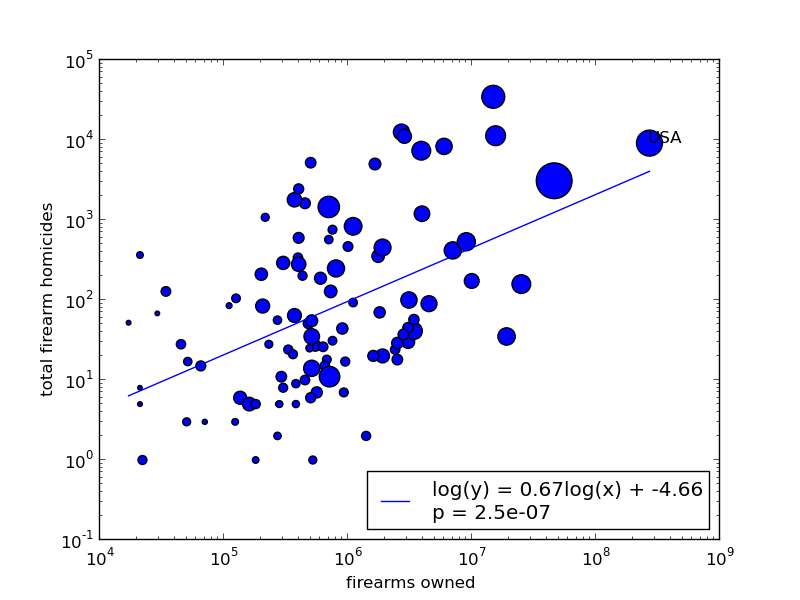
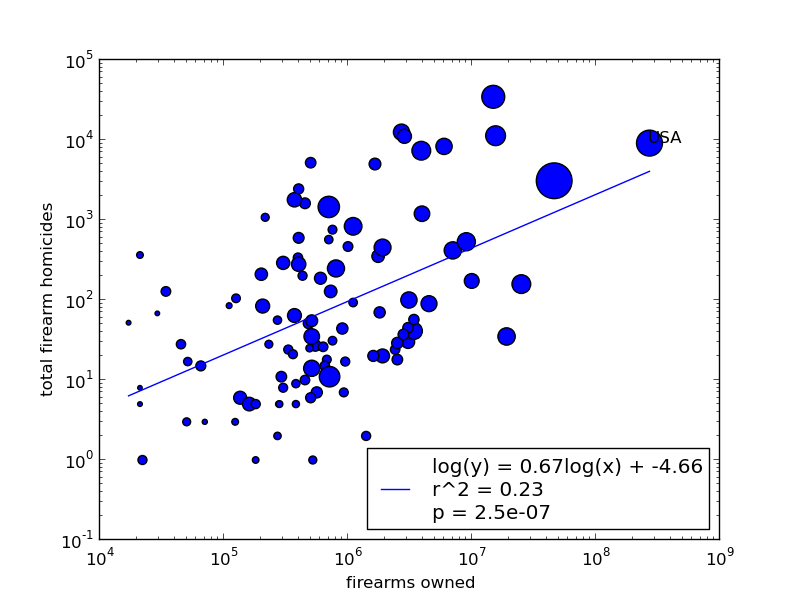
Add r^2 to figure output.

Changed region(s): [[0.4688, 0.72, 0.9062, 0.84], [0.4375, 0.75, 0.4688, 0.78]]

diff --git a/guns.py b/guns.py
@@ -48,7 +48,7 @@ scatter(xs, ys, s=size)
 m, b, r, p, se = s.linregress(log(xs), log(ys))
 print m, b, r, p, se
 plot(sorted(xs), [e**b * x**m for x in sorted(xs)],
-     label='log(y) = %slog(x) + %s\np = %.2g' % (round(m, 2), round(b, 2), p))
+     label='log(y) = %slog(x) + %s\nr^2 = %s\np = %.2g' % (round(m, 2), round(b, 2), round(r**2, 2), p))
 
 
 for label, country in [
